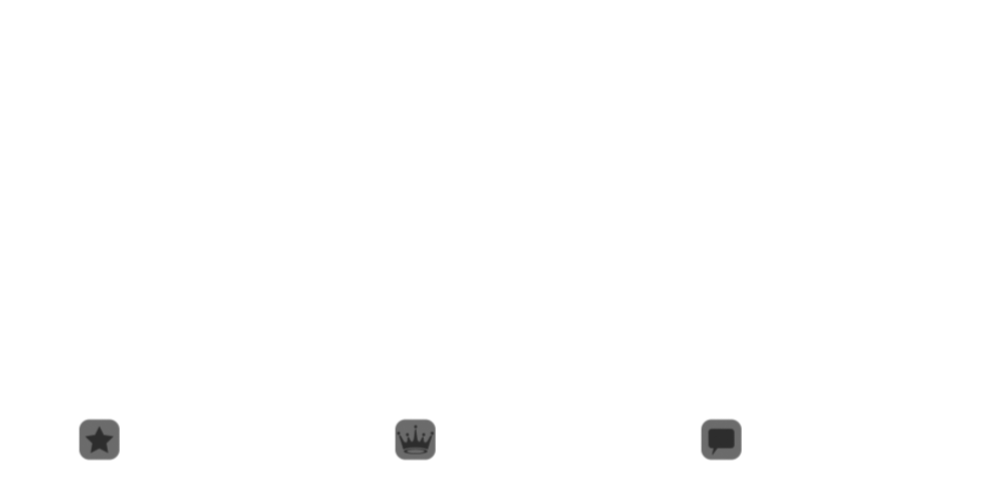
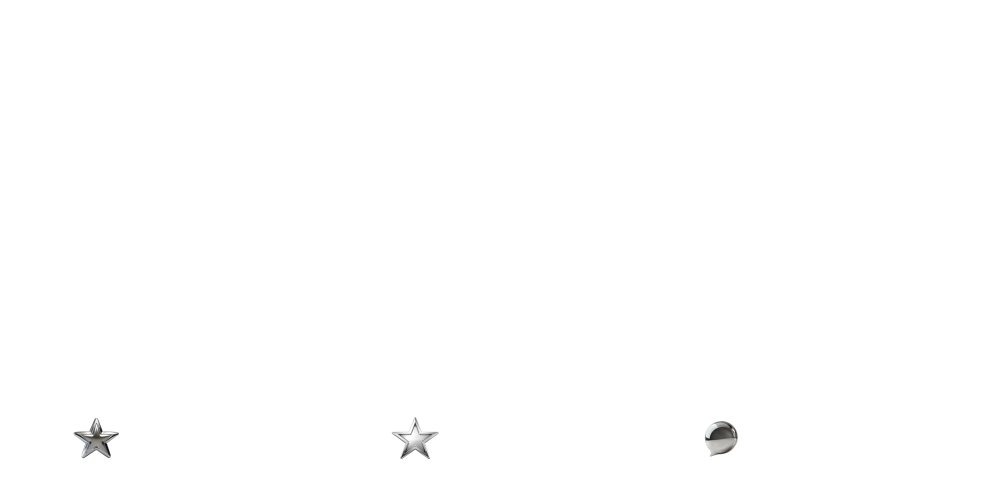
levelling cards stuff

Changed region(s): [[0.682, 0.84, 0.744, 0.93], [0.372, 0.84, 0.434, 0.93], [0.062, 0.84, 0.124, 0.93]]

diff --git a/cogs/levels.py b/cogs/levels.py
@@ -664,7 +664,7 @@ class levels(commands.Cog):
     def get_card1(self, avatar: BytesIO, levels: LevelRow, rank: int, user: discord.User, guild: discord.Guild) -> BytesIO:
         percentage, xp_have, xp_need, level = self.xp_calculations(levels)
         card = Image.new('RGBA', size=(1000, 1000), color='grey')
-        
+
         if levels['image'] is not None:
             bg = Image.open(BytesIO(levels["image"]))
         else:
@@ -672,7 +672,7 @@ class levels(commands.Cog):
 
         bg_aspect_ratio = bg.width / bg.height
         target_aspect_ratio = 1000 / 1000
-        
+
         if bg_aspect_ratio > target_aspect_ratio:
             new_width = int(bg.height * target_aspect_ratio)
             left = (bg.width - new_width) // 2
@@ -685,7 +685,7 @@ class levels(commands.Cog):
             bottom = top + new_height
             left = 0
             right = bg.width
-        
+
         bg = bg.crop((left, top, right, bottom))
         bg = bg.resize((1000, 1000))
         dark = ImageEnhance.Brightness(bg)
@@ -699,7 +699,8 @@ class levels(commands.Cog):
         bg_frosted.putalpha(inverted_mask)
         bar, mask_bar = self._make_progress_bar(percentage, levels['color'], levels["color2"])
         avatar_paste, circle = self.get_avatar(avatar)
-        empty = Image.open("./assets/badgeempty.png").resize((100, 100))
+        empty_image = Image.open("./assets/badgeempty.png").resize((100, 100))
+
         card.paste(bg, (0, 0))
         card.paste(bg_frosted, (0, 0), bg_frosted)
         card.paste(bar, (28, 26), mask_bar)
@@ -722,49 +723,99 @@ class levels(commands.Cog):
         booster = 728684846846574703
         has_booster_role = any(role.id == booster for role in user.roles)
 
+        empty_role_id = 1068334859157778474
+        has_empty_role = any(role.id == empty_role_id for role in user.roles)
+
         if has_leads_role:
             leads_role_png = Image.open('./assets/leads.png').resize((100, 100))
             card.paste(leads_role_png, (75, 325), leads_role_png)
         else:
-            card.paste(empty, (75, 325), empty)
+            card.paste(empty_image, (75, 325), empty_image)
 
         if has_staff_role:
             staff_role_png = Image.open('./assets/staff.png').resize((100, 100))
             card.paste(staff_role_png, (165, 325), staff_role_png)
         else:
-            card.paste(empty, (165, 325), empty)
+            card.paste(empty_image, (165, 325), empty_image)
 
         if has_top20_role:
             top20_role_png = Image.open('./assets/top20.png').resize((100, 100))
             card.paste(top20_role_png, (255, 325), top20_role_png)
         else:
-            card.paste(empty, (255, 325), empty)
+            card.paste(empty_image, (255, 325), empty_image)
 
         if has_member_role:
             member_role_png = Image.open('./assets/chromies.png').resize((100, 100))
             card.paste(member_role_png, (75, 425), member_role_png)
         else:
-            card.paste(empty, (75, 425), empty)
+            card.paste(empty_image, (75, 425), empty_image)
 
         if has_booster_role:
             booster_role_png = Image.open('./assets/booster.png').resize((100, 100))
             card.paste(booster_role_png, (165, 425), booster_role_png)
         else:
-            card.paste(empty, (165, 425), empty)
+            card.paste(empty_image, (165, 425), empty_image)
+
+        if has_empty_role:
+            empty_filler = Image.open('./assets/badgeempty.png').resize((100, 100))
+            card.paste(empty_filler, (255, 425), empty_filler)
+        else:
+            card.paste(empty_image, (255, 425), empty_image)
+
+        if has_empty_role:
+            empty_filler = Image.open('./assets/badgeempty.png').resize((100, 100))
+            card.paste(empty_filler, (75, 525), empty_filler)
+        else:
+            card.paste(empty_image, (75, 525), empty_image)
+
+        if has_empty_role:
+            empty_filler = Image.open('./assets/badgeempty.png').resize((100, 100))
+            card.paste(empty_filler, (165, 525), empty_filler)
+        else:
+            card.paste(empty_image, (165, 525), empty_image)
+
+        if has_empty_role:
+            empty_filler = Image.open('./assets/badgeempty.png').resize((100, 100))
+            card.paste(empty_filler, (255, 525), empty_filler)
+        else:
+            card.paste(empty_image, (255, 525), empty_image)
+
+        if has_empty_role:
+            empty_filler = Image.open('./assets/badgeempty.png').resize((100, 100))
+            card.paste(empty_filler, (75, 625), empty_filler)
+        else:
+            card.paste(empty_image, (75, 625), empty_image)
+
+        if has_empty_role:
+            empty_filler = Image.open('./assets/badgeempty.png').resize((100, 100))
+            card.paste(empty_filler, (165, 625), empty_filler)
+        else:
+            card.paste(empty_image, (165, 625), empty_image)
+
+        if has_empty_role:
+            empty_filler = Image.open('./assets/badgeempty.png').resize((100, 100))
+            card.paste(empty_filler, (255, 625), empty_filler)
+        else:
+            card.paste(empty_image, (255, 625), empty_image)
 
         zhcn = ImageFont.truetype("./fonts/IntegralCF-Regular.otf", size=40)
-        zhcn2 = ImageFont.truetype("./fonts/IntegralCF-Regular.otf", size=20)
+        zhcn2 = ImageFont.truetype("./fonts/IntegralCF-Regular.otf", size=35)
         zhcn3 = ImageFont.truetype("./fonts/IntegralCF-Regular.otf", size=25)
+        zhcn4 = ImageFont.truetype("./fonts/IntegralCF-Regular.otf", size=27)
         draw = ImageDraw.Draw(card, 'RGBA')
-        message = levels["messages"]
-        messages = self.human_format(message)
-        draw.text((155, 767), f'{xp_have} | {xp_need}', fill=levels['color'], font=zhcn)
+        messages = levels["messages"]
+
+        draw.text((125, 773), f'{xp_have}', fill=levels['color2'], font=zhcn4)
+        draw.text((205, 768), f'|', fill=levels['color'], font=zhcn2)
+        draw.text((235, 773), f'{xp_need}', fill=levels['color2'], font=zhcn4)
+        draw.text((140, 750), f'xp amount', fill=levels['color'], font=zhcn3)
         draw.text((275, 85), f"{user.name}", fill=levels['color2'], font=zhcn)
         draw.text((295, 137), f"chroma levels", fill=levels['color'], font=zhcn3)
         draw.text((125, 265), f"badges", fill=levels['color2'], font=zhcn)
         draw.text((115, 885), f'rank {str(rank)}', fill=levels['color2'], font=zhcn)
         draw.text((435, 885), f'level {level-1}', fill=levels['color2'], font=zhcn)
         draw.text((735, 885), f'{messages}', fill=levels['color2'], font=zhcn)
+
         buffer = BytesIO()
         card.save(buffer, 'png')
         buffer.seek(0)
@@ -831,6 +882,9 @@ class levels(commands.Cog):
         booster = 728684846846574703
         has_booster_role = any(role.id == booster for role in user.roles)
 
+        empty_role_id = 1068334859157778474
+        has_empty_role = any(role.id == empty_role_id for role in user.roles)
+
         if has_leads_role:
             leads_role_png = Image.open('./assets/leads.png').resize((100, 100))
             card.paste(leads_role_png, (450, 50), leads_role_png)
@@ -861,13 +915,59 @@ class levels(commands.Cog):
         else:
             card.paste(empty, (450, 140), empty)
 
+        if has_empty_role:
+            empty_filler = Image.open('./assets/badgeempty.png').resize((100, 100))
+            card.paste(empty_filler, (575, 140), empty_filler)
+        else:
+            card.paste(empty, (575, 140), empty)
+
+        if has_empty_role:
+            empty_filler = Image.open('./assets/badgeempty.png').resize((100, 100))
+            card.paste(empty_filler, (700, 140), empty_filler)
+        else:
+            card.paste(empty, (700, 140), empty)
+
+        if has_empty_role:
+            empty_filler = Image.open('./assets/badgeempty.png').resize((100, 100))
+            card.paste(empty_filler, (825, 140), empty_filler)
+        else:
+            card.paste(empty, (825, 140), empty)
+
+        if has_empty_role:
+            empty_filler = Image.open('./assets/badgeempty.png').resize((100, 100))
+            card.paste(empty_filler, (450, 230), empty_filler)
+        else:
+            card.paste(empty, (450, 230), empty)
+
+        if has_empty_role:
+            empty_filler = Image.open('./assets/badgeempty.png').resize((100, 100))
+            card.paste(empty_filler, (575, 230), empty_filler)
+        else:
+            card.paste(empty, (575, 230), empty)
+
+        if has_empty_role:
+            empty_filler = Image.open('./assets/badgeempty.png').resize((100, 100))
+            card.paste(empty_filler, (700, 230), empty_filler)
+        else:
+            card.paste(empty, (700, 230), empty)
+
+        if has_empty_role:
+            empty_filler = Image.open('./assets/badgeempty.png').resize((100, 100))
+            card.paste(empty_filler, (825, 230), empty_filler)
+        else:
+            card.paste(empty, (825, 230), empty)
+
         zhcn = ImageFont.truetype("./fonts/IntegralCF-Regular.otf", size=40)
         zhcn2 = ImageFont.truetype("./fonts/IntegralCF-Regular.otf", size=20)
         zhcn3 = ImageFont.truetype("./fonts/IntegralCF-Regular.otf", size=22)
+        zhcn4 = ImageFont.truetype("./fonts/IntegralCF-Regular.otf", size=30)
         draw = ImageDraw.Draw(card, 'RGBA')
-        message = levels["messages"]
-        messages = self.human_format(message)
-        draw.text((625, 308), f'{xp_have} | {xp_need}', fill=levels['color'], font=zhcn)
+        messages = levels["messages"]
+
+        draw.text((615, 313), f'{xp_have}', fill=levels['color2'], font=zhcn4)
+        draw.text((700, 308), f'|', fill=levels['color'], font=zhcn)
+        draw.text((725, 313), f'{xp_need}', fill=levels['color2'], font=zhcn4)
+        draw.text((140, 750), f'xp amount', fill=levels['color'], font=zhcn3)
         draw.text((43, 250), f"{user.name}", fill=levels['color2'], font=zhcn)
         draw.text((43, 295), f"chroma levels", fill=levels['color'], font=zhcn3)
         draw.text((625, 5), f"badges", fill=levels['color2'], font=zhcn)
@@ -1023,9 +1123,9 @@ class levels(commands.Cog):
                 if xp < ((50*(lvl**2))+(50*(lvl-1))):
                     break
                 lvl += 1
-            description += f"**{i}.** <@!{row['member_id']}>\n-# <:1166196258499727480:1325926576042410094> level {lvl-1} | {row['messages']} {msg}\n\n"
+            description += f"\n**{i}.** <@!{row['member_id']}>\n<:1166196254141861979:1325926597517119599>** level {lvl}\n<:1166196258499727480:1359653802235400486> {row['messages']} {msg}**\n"
             if i % per_page == 0 or i == len(rows):
-                embed = discord.Embed(title=f"{interaction.guild.name}'s leaderboard", description=description, color=0x2b2d31)
+                embed = discord.Embed(title=f"🌹CHROMA'S LEADERBOARD", description=description, color=0x2b2d31)
                 embed.set_thumbnail(url=interaction.guild.icon.url)
                 embeds.append(embed)
                 description = ""
